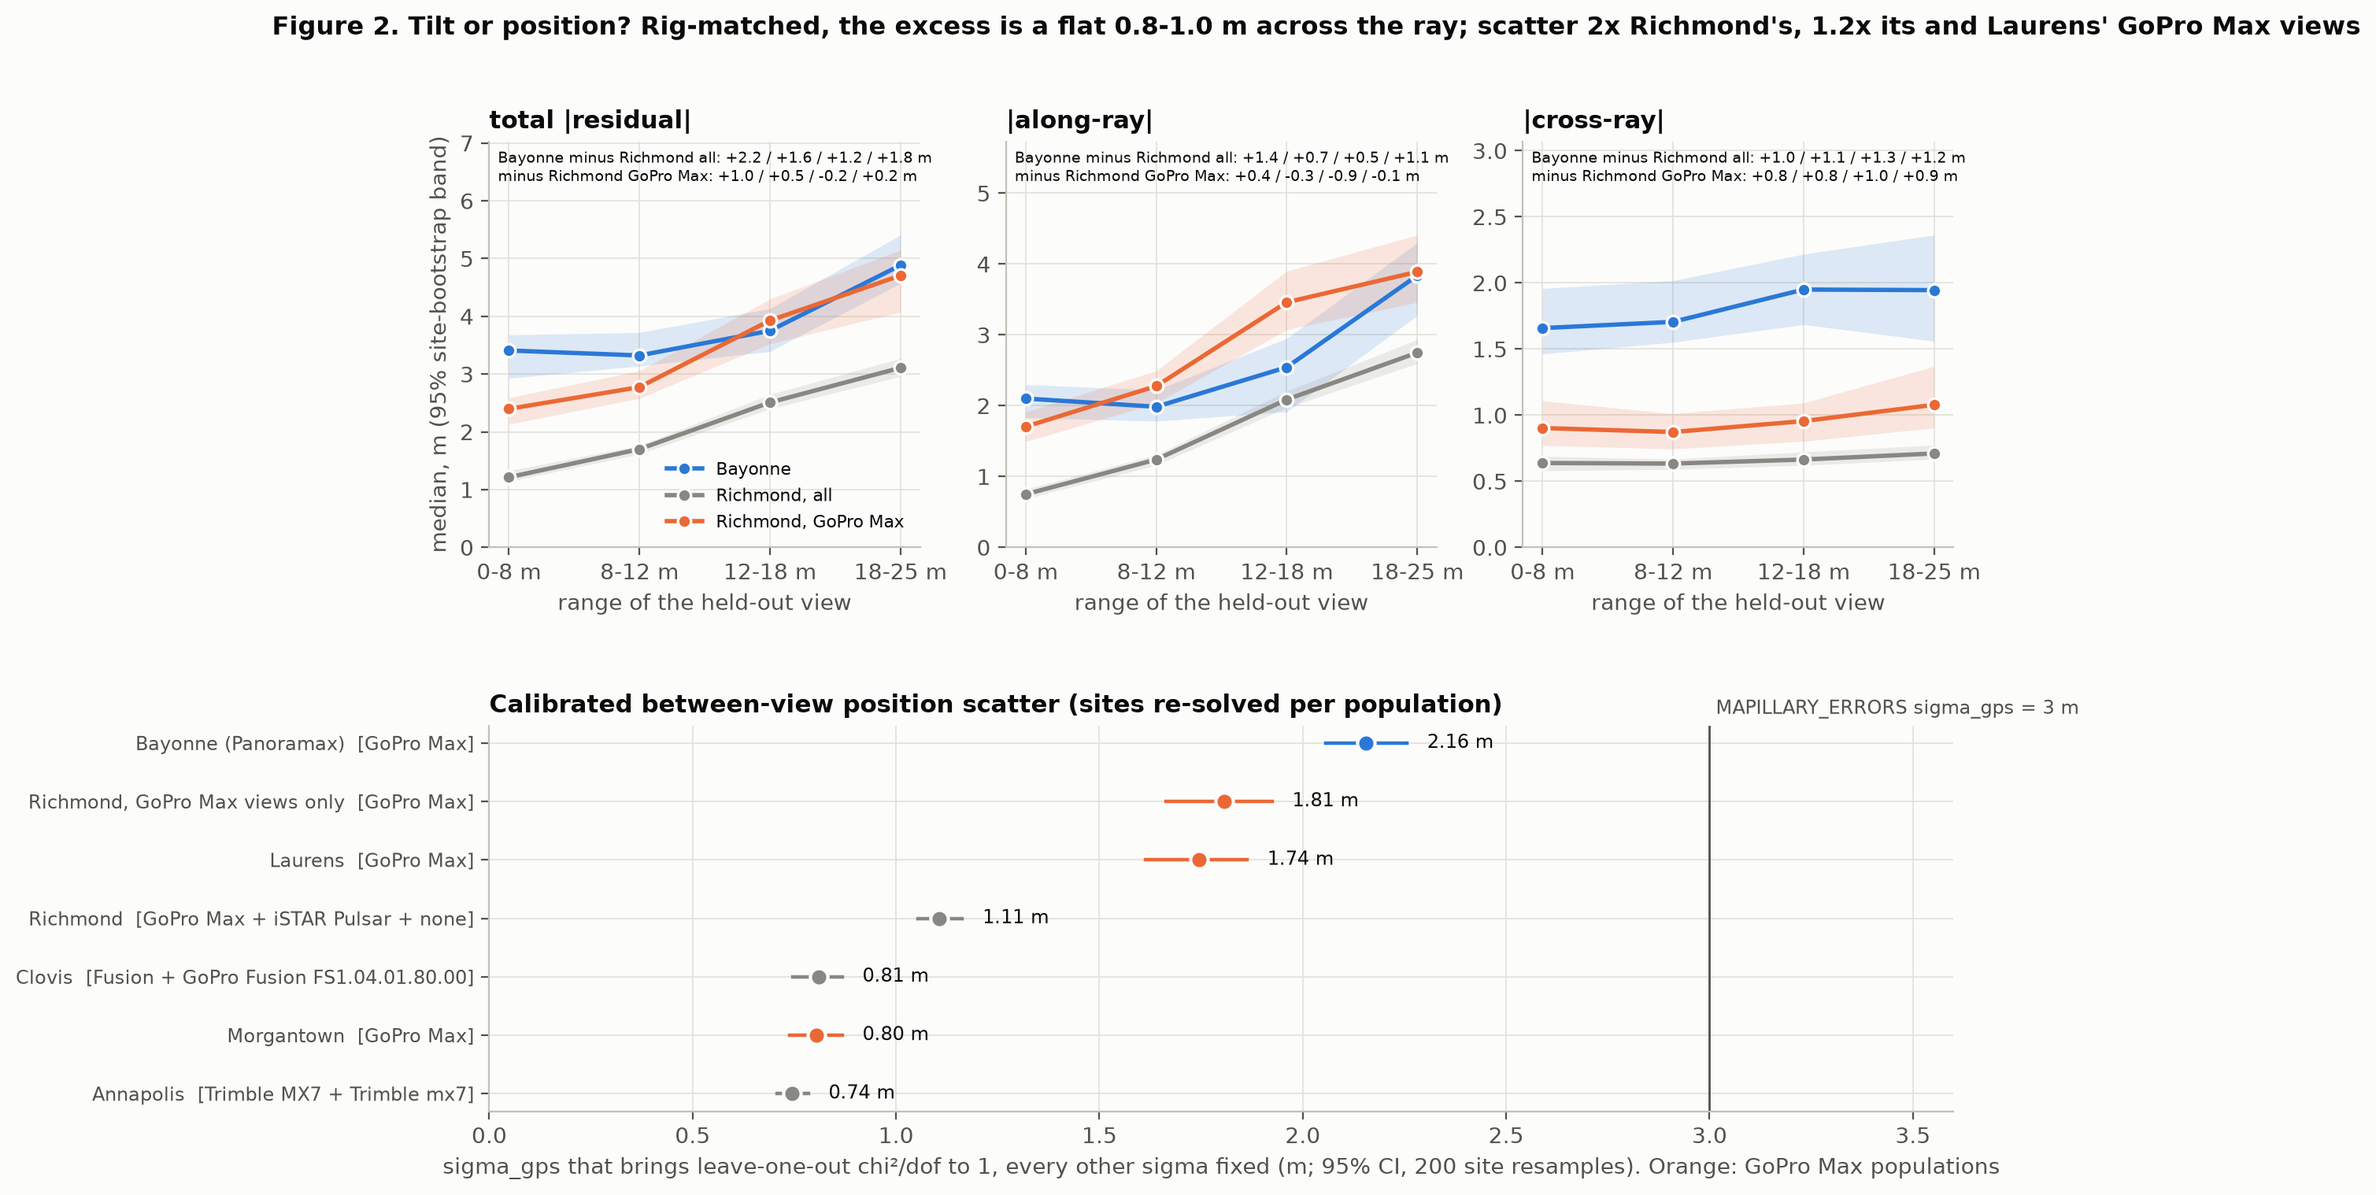
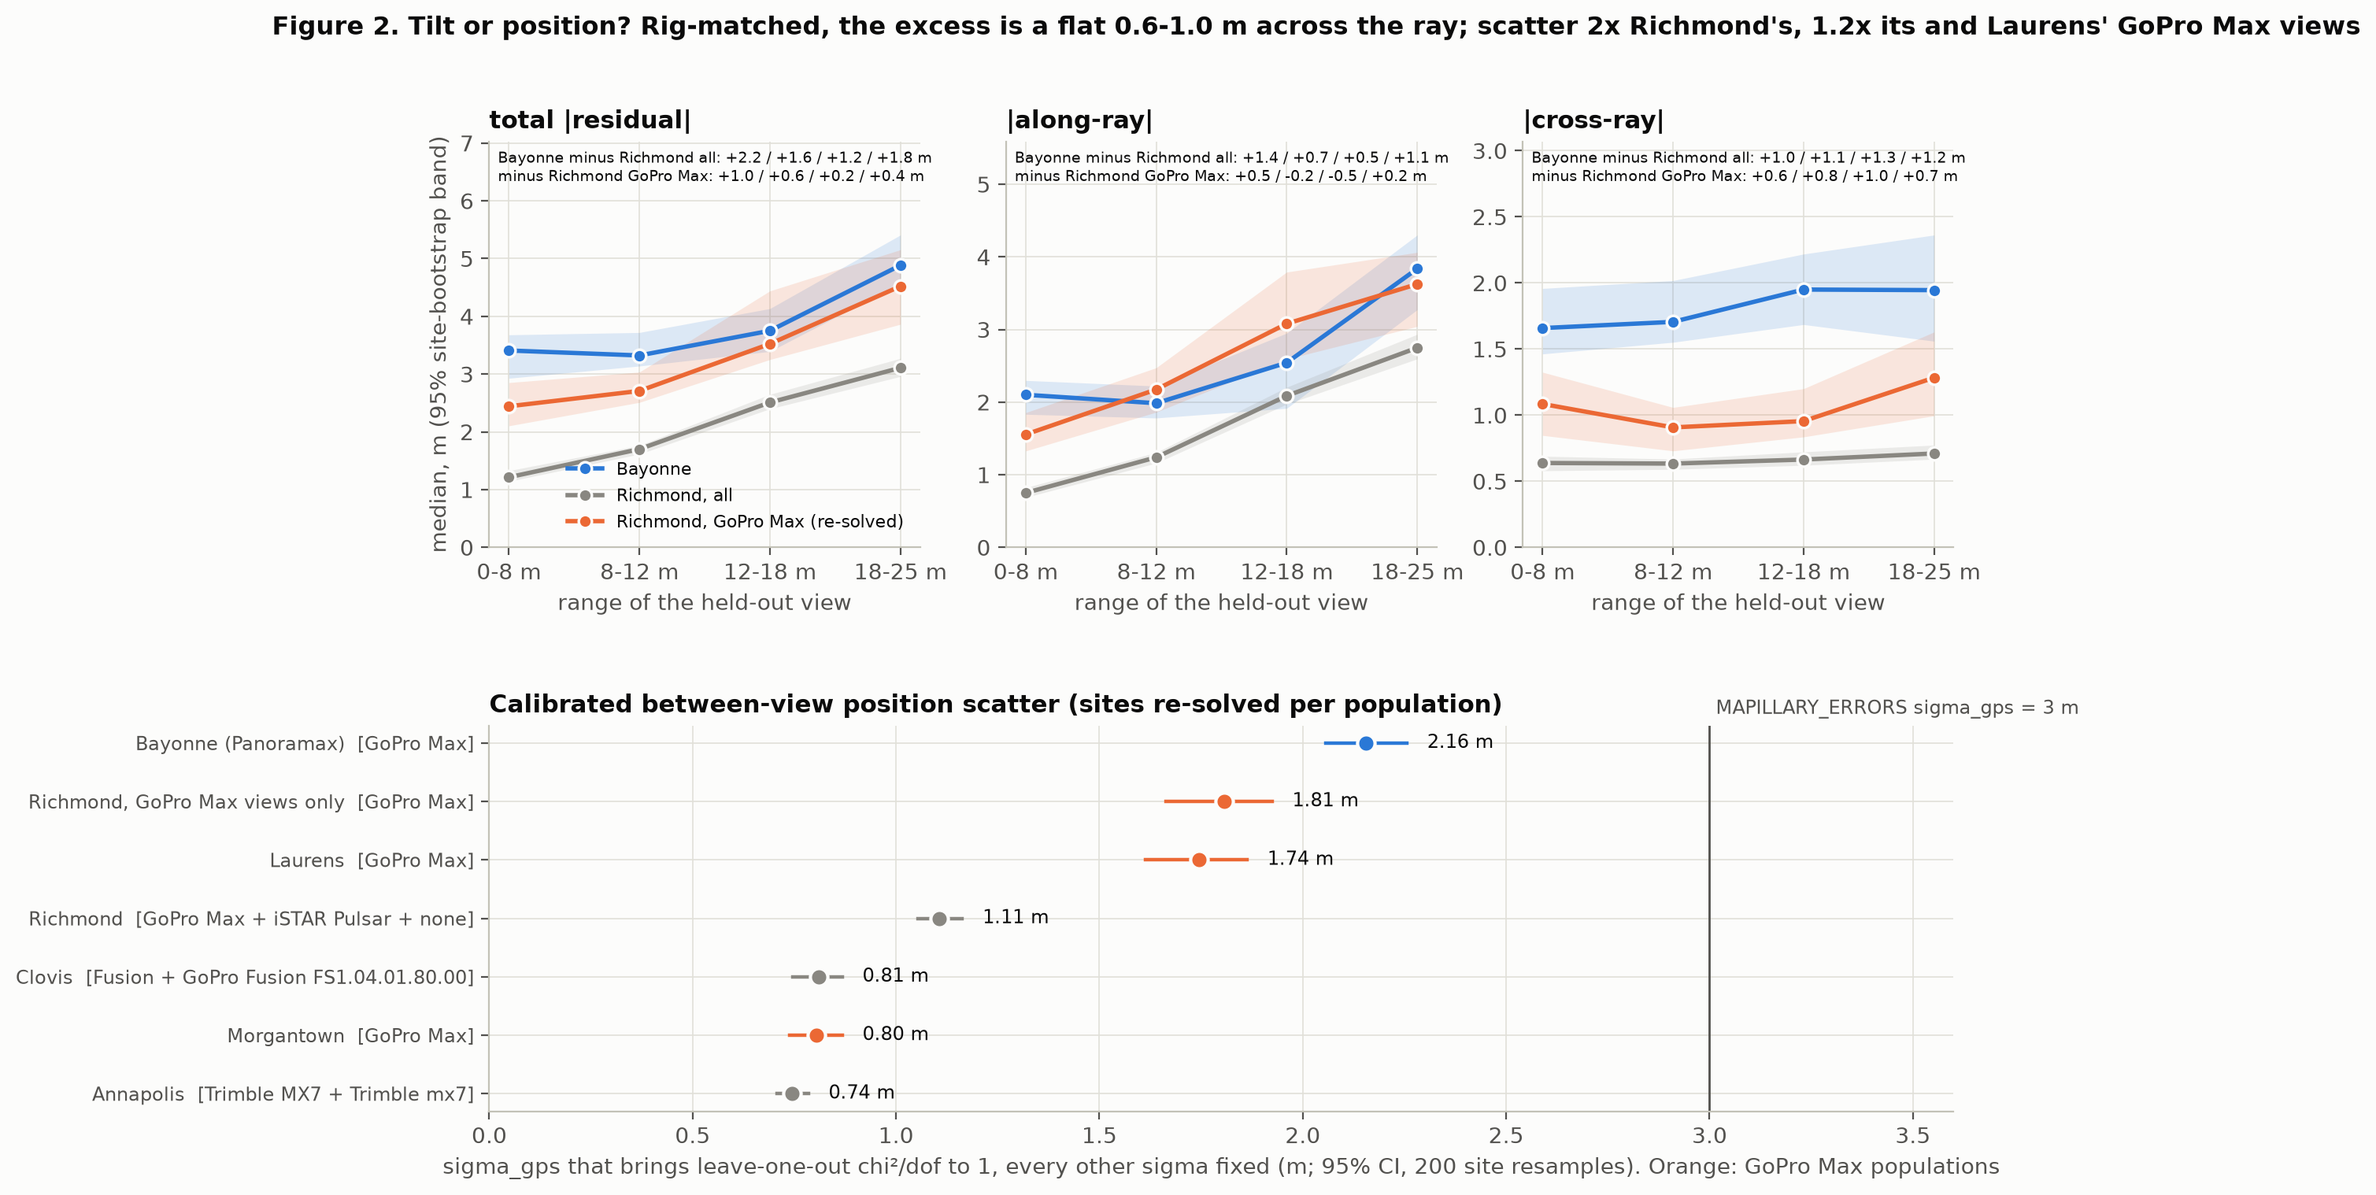
Bayonne #57: re-solve the rig-matched range reference; JPEG photo figures
The Figure 2 range panels now compare Bayonne with Richmond's GoPro Max
views re-solved from GoPro Max views only (as the sigma_gps panel already
did), not filtered from the mixed-rig solution. Along-ray difference
+0.5/-0.2/-0.5/+0.2 m, cross-ray +0.6/+0.8/+1.0/+0.7 m (was +0.8-1.0):
the reading is unchanged. Pair-share wording corrected (below half in
every run), Figure 3 site-size label matched to the data, photo figures
(7a, 7c, 7d) saved as deterministic quality-92 JPEGs instead of a
posterising 256-colour palette.

diff --git a/scripts/panoramax_bayonne_figures.py b/scripts/panoramax_bayonne_figures.py
@@ -212,10 +212,16 @@ def cmd_data(args):
         _write('fig1_verdict.csv', fig1)
 
     # fig2a: residual by range bin -- Bayonne, Richmond (all views) and Richmond's GoPro
-    # Max views (the rig-matched reference)
+    # Max views RE-SOLVED on their own (_rig_sites: each held out against GoPro Max mates
+    # only, as Bayonne's are), the rig-matched reference
     fig2a = []
     for c, subset in ((CITY, 'all'), ('richmond', 'all'), ('richmond', 'GoPro Max')):
-        rows = [r for r in loaded[c][4] if subset == 'all' or r['camera_model'] == subset]
+        if subset == 'all':
+            rows = loaded[c][4]
+        else:
+            _, by_id, sites, frame, _, rigs = loaded[c]
+            rows = rr.gtfree_rows(c, '2.6m', _rig_sites(sites, rigs, subset), frame, by_id,
+                                  HEIGHT, rigs)
         for b in RANGE_BINS:
             grp = [r for r in rows if rr._range_bucket(r['range_m']) == b]
             point, ci = _boot(grp, _stats)
@@ -620,12 +626,24 @@ def _style():
     return plt
 
 
-def _save(fig, name, svg=True, svg_dpi=72, quantize=False):
+def _save(fig, name, svg=True, svg_dpi=72, quantize=False, jpeg=False):
     """PNG (200 dpi) + SVG, with no timestamps. The SVG goes through a buffer and is
     written with '\n' line endings, so it is byte-identical across platforms (the repo's
     .gitattributes keeps *.svg as LF). Photo figures pass svg=False: an SVG would embed the
     photos a second time. Rasterized artists (the 28k-point map) go in at svg_dpi."""
     OUT.mkdir(parents=True, exist_ok=True)
+    if jpeg:
+        # photo figures: a 256-colour palette posterises the photos, so these go out as a
+        # quality-92 JPEG (4:4:4) rendered from the same 200 dpi raster; PIL's encoder is
+        # deterministic for fixed input and settings
+        from PIL import Image
+        buf = io.BytesIO()
+        fig.savefig(buf, format='png', dpi=200, bbox_inches='tight',
+                    metadata={'Software': None})
+        Image.open(io.BytesIO(buf.getvalue())).convert('RGB').save(
+            OUT / f'{name}.jpg', quality=92, subsampling=0)
+        print(f'wrote {OUT / name}.jpg')
+        return
     if quantize:
         # photo/dense figures: an adaptive 256-colour palette (median cut, Floyd-Steinberg),
         # deterministic, a third of the size of a truecolour PNG
@@ -728,7 +746,7 @@ def fig2(plt):
     gs = fig.add_gridspec(2, 3, height_ratios=[1, 0.95], hspace=0.45)
     x = list(range(len(RANGE_BINS)))
     series = ((CITY, 'all', BLUE, 'Bayonne'), ('richmond', 'all', MUTED, 'Richmond, all'),
-              ('richmond', 'GoPro Max', ORANGE, 'Richmond, GoPro Max'))
+              ('richmond', 'GoPro Max', ORANGE, 'Richmond, GoPro Max (re-solved)'))
     for k, (key, title) in enumerate((('m_p50', 'total |residual|'),
                                       ('along_p50', '|along-ray|'),
                                       ('cross_p50', '|cross-ray|'))):
@@ -776,7 +794,7 @@ def fig2(plt):
     ax.set_xlabel('sigma_gps that brings leave-one-out chi²/dof to 1, every other sigma '
                   'fixed (m; 95% CI, 200 site resamples). Orange: GoPro Max populations')
     ax.set_title('Calibrated between-view position scatter (sites re-solved per population)')
-    fig.suptitle('Figure 2. Tilt or position? Rig-matched, the excess is a flat 0.8-1.0 m across '
+    fig.suptitle('Figure 2. Tilt or position? Rig-matched, the excess is a flat 0.6-1.0 m across '
                  'the ray; scatter 2x Richmond\'s, 1.2x its and Laurens\' GoPro Max views',
                  x=0.01, ha='left', fontsize=11.5, fontweight='bold')
     _save(fig, 'fig2_position')
@@ -814,7 +832,7 @@ def fig3(plt):
                               label='no site-mate from its sequence')],
               loc='upper center', fontsize=8.5, bbox_to_anchor=(0.45, -0.13), ncol=2)
     ax.set_xlabel('leave-one-out chi²/dof of the held-out views (95% site-bootstrap CI). '
-                  'The two groups also differ in site size.')
+                  'In Richmond and Annapolis the two groups also differ in site size.')
     ax.set_xlim(0, 1.25)
     ax.set_xticks([0, 0.2, 0.4, 0.6, 0.8])
     ax.set_title('Figure 3. Does same-sequence error cancel in the leave-one-out? Not '
@@ -1003,7 +1021,7 @@ def fig7(plt):
              '(etalab-2.0 = Licence Ouverte / Etalab 2.0; CC-BY-SA-4.0).', fontsize=8.5,
              color=INK2)
     fig.subplots_adjust(left=0.01, right=0.99, top=0.92, bottom=0.02)
-    _save(fig, 'fig7a_contact_sheet', svg=False, quantize=True)
+    _save(fig, 'fig7a_contact_sheet', svg=False, jpeg=True)
 
     site = _read('fig7b_site.csv')
     s = next(r for r in site if r['kind'] == 'site')
@@ -1061,7 +1079,7 @@ def fig7(plt):
     ax.text(0, dh + 260, f"Imagery: © {m['producer']} via Panoramax "
             f"(panoramax.openstreetmap.fr), {m['license']}", fontsize=8, color=INK2)
     fig.tight_layout()
-    _save(fig, 'fig7c_max2_skip', svg=False, quantize=True)
+    _save(fig, 'fig7c_max2_skip', svg=False, jpeg=True)
     fig7d(plt)
 
 
@@ -1090,7 +1108,7 @@ def fig7d(plt):
                  '(seed 57), zoomed to 20° x 15°',
                  x=0.01, ha='left', fontsize=11.5, fontweight='bold')
     fig.subplots_adjust(left=0.01, right=0.99, top=0.9, bottom=0.1)
-    _save(fig, 'fig7d_crops', svg=False, quantize=True)
+    _save(fig, 'fig7d_crops', svg=False, jpeg=True)
 
 
 def cmd_figures(_args):

diff --git a/docs/panoramax-bayonne.md b/docs/panoramax-bayonne.md
@@ -39,9 +39,10 @@ must be qualified
 > 2. **The excess is across the ray, not along it, so it is not tilt.**
 >    - Against all of Richmond, Bayonne's residual is a near-constant +1.2 to +2.2 m in
 >      every range bin.
->    - Against Richmond's GoPro Max views (rig-matched), the along-ray excess vanishes
->      (+0.4 to −0.9 m). A flat **+0.8 to +1.0 m across the ray** remains: position,
->      with some heading error possible.
+>    - Against Richmond's GoPro Max views, re-solved from GoPro Max views only
+>      (rig-matched), there is no consistent along-ray excess (+0.5 / −0.2 / −0.5 /
+>      +0.2 m by range bin). A **+0.6 to +1.0 m excess across the ray** remains:
+>      position, with some heading error possible.
 >    - The leave-one-out-calibrated `sigma_gps` is 2.16 m, against 1.11 m for Richmond
 >      overall. Against the GoPro Max populations it is 1.81 m (Richmond's GoPro Max
 >      views), 1.74 m (Laurens) and 0.80 m (Morgantown). All of them sit under
@@ -86,7 +87,7 @@ pre-thinning count ([#126](https://github.com/ProjectSidewalk/sidewalk-auto-labe
 
 - **104** are GoPro **MAX2** uploads on the OSM-FR instance. Each declares 7680x3840 but
   serves a 7680x2940, vertically cropped `hd` image. The 2:1 check rejects them, which is
-  correct ([Figure 7c](figures/panoramax-bayonne/fig7c_max2_skip.png)).
+  correct ([Figure 7c](figures/panoramax-bayonne/fig7c_max2_skip.jpg)).
 - **3** have no `view:azimuth`, which is also correct.
 - **3** IGN panos (`139d37d3-…`, `1f8be062-…`, `2c902fc4-…`) have metadata and pixels
   that are fine today. main.py does not log per-pano skip reasons, and two causes fit:
@@ -114,7 +115,7 @@ The six runs at 0.55 ([Figure 5](figures/panoramax-bayonne/fig5_detections.png))
 0.123, **Bayonne 0.135**, Laurens 0.158, Morgantown 0.203, Annapolis 0.548, Richmond 1.048.
 Bayonne is inside the Mapillary range.
 
-[Figure 7d](figures/panoramax-bayonne/fig7d_crops.png) zooms in on 12 bundle detections.
+[Figure 7d](figures/panoramax-bayonne/fig7d_crops.jpg) zooms in on 12 bundle detections.
 They are lowered kerbs at crossings, and one tactile strip. Whether French kerb lowerings
 are under-detected is still a question for ground truth. Four of the five comparators
 predate the storage floor, so their 0.30 tier is their 0.55 tier.
@@ -125,7 +126,7 @@ the rig mask (`NADIR_MASK_DEG` = 49°, y ≥ 0.772).
 
 - Detections in the band: **2 of 10,011** at 0.30 and **0 of 3,861** at 0.55.
 - Detections on the rig (dip ≥ 49°): 9 at 0.30, 1 at 0.55.
-- [Figure 7a](figures/panoramax-bayonne/fig7a_contact_sheet.png) shows the band and the
+- [Figure 7a](figures/panoramax-bayonne/fig7a_contact_sheet.jpg) shows the band and the
   mask line. One random pano carries a different, green band from another producer.
 
 **Position check** (`runs/bayonne/position_check.json`): median cross-track to OSM
@@ -205,8 +206,9 @@ cancellation either way (`views_per_site_p50` in the CSV):
 
 The share of same-site view pairs that come from one sequence (`data/fig3_pair_share.csv`)
 is 0.19 in Richmond, 0.36 in Annapolis, 0.37 in Bayonne, 0.40 in Laurens, 0.47 in
-Morgantown and 0.49 in Clovis. It is not a minority everywhere. The Richmond and
-Annapolis shares were measured before the amendment and not disclosed then.
+Morgantown and 0.49 in Clovis. It is below half in every run (0.19-0.49), but well
+above Richmond's 0.19 elsewhere. The Richmond and Annapolis shares were measured before
+the amendment and not disclosed then.
 
 So the rule stands, but the stated reason for it is replaced by measured numbers. The
 `sigma_gps` that brings chi²/dof to **1** (`data/fig2b_sigma_gps.csv`) is:
@@ -262,9 +264,16 @@ and its metre clause fails.
 - **The metre excess is roughly constant across range bins.** Against all of Richmond it
   is +2.2 / +1.6 / +1.2 / +1.8 m (0-8 / 8-12 / 12-18 / 18-25 m). A pitch error would
   grow with range.
-- **Rig-matched, the excess sits across the ray.** Against Richmond's GoPro Max views,
-  the along-ray difference is +0.4 / −0.3 / −0.9 / −0.1 m, while the cross-ray excess is
-  a flat +0.8 / +0.8 / +1.0 / +0.9 m.
+- **Rig-matched, the excess sits across the ray.** The reference is Richmond's GoPro
+  Max views re-solved from GoPro Max views only (`_rig_sites`), so each is held out
+  against GoPro Max mates, as Bayonne's are. Against it, the along-ray difference is
+  +0.5 / −0.2 / −0.5 / +0.2 m, while the cross-ray excess is +0.6 / +0.8 / +1.0 / +0.7 m.
+  - Bins hold 128-346 views.
+  - An earlier version only filtered the mixed-rig solution, so those views were held
+    out against mostly iSTAR Pulsar mates. It read along +0.4 / −0.3 / −0.9 / −0.1 and
+    cross +0.8 / +0.8 / +1.0 / +0.9.
+  - Re-solving narrows the cross-ray gap at the two outer bins and removes the along-ray
+    deficit at long range. The reading is unchanged.
   - A range-independent cross-ray offset is camera position.
   - Heading error would grow with range: the cross-ray part grows only 1.66 to 1.95 m over
     a ~16 m span, which bounds heading at about 1° or less.
@@ -390,7 +399,7 @@ at 1.90 panos/s.
 | 9 | `python scripts/panoramax_bayonne_figures.py examples` → `data/examples/` (7a thumbnails; 7c, the first cropped-MAX2 skip by pano id) | net | 1 min |
 | 10 | `python scripts/export_benchmark.py runs/bayonne/results.jsonl --bundle D:/Git/labeler-wt/bayonne-bundle --sample 100 --empty-sample 25` | net | 1.5 min |
 | 11 | `python scripts/panoramax_bayonne_figures.py crops` → `data/examples/crops/` + `crops.csv` (from the bundle) | — | 10 s |
-| 12 | `python scripts/panoramax_bayonne_figures.py figures` → `fig*.png` (+ `.svg` for figures 1-5 and 7b) | — | 30 s |
+| 12 | `python scripts/panoramax_bayonne_figures.py figures` → `fig*.png` / `.jpg` (+ `.svg` for figures 1-5 and 7b) | — | 30 s |
 | 13 | on makelab2, `bayonne_archive.sh`: `export_benchmark.py runs/bayonne/results.jsonl --out runs/bayonne/panos` | net | 4.2 h |
 
 - **Step 2** must keep `--thin-spacing 10`. The manifest does not record it (#126); the
@@ -398,10 +407,12 @@ at 1.90 panos/s.
 - **Step 5's** `bayonne_report.md` copies under `data/reprojection*/` are that step's
   per-city `report.md`, copied by hand.
 - **Step 12** reads only the committed `data/`. It is byte-reproducible for the listed
-  versions: it was run twice and every PNG and SVG hashed identical. SVGs are written
+  versions: it was run twice and every PNG, JPEG and SVG hashed identical. SVGs are written
   with LF line endings, and `.gitattributes` keeps them LF.
-- **Figure formats.** The photo and map figures (6, 7a, 7c, 7d) are PNG only, at 200 dpi
-  with an adaptive 256-colour palette. An SVG would embed the photos a second time.
+- **Figure formats.** Figures 1-5 and 7b are PNG + SVG. The map (6) is PNG with a
+  deterministic 256-colour palette. The photo figures (7a, 7c, 7d) are quality-92 JPEGs
+  (4:4:4) rendered from the same 200 dpi raster: a palette posterised the photos, and an
+  SVG would embed them a second time.
 
 **Committed vs regenerated.**
 
@@ -447,12 +458,12 @@ at 1.90 panos/s.
 | # | question it answers | file |
 |---|---|---|
 | 1 | Is Bayonne outside the Richmond-anchored band? Marginally: 8% over the bar, 1.16x Richmond's GoPro Max views (CIs just separate). | [fig1_verdict](figures/panoramax-bayonne/fig1_verdict.png) |
-| 2 | Tilt or position? Rig-matched, the excess is a flat 0.8-1.0 m across the ray. Scatter is 2x Richmond's and 1.2x its and Laurens' GoPro Max views. | [fig2_position](figures/panoramax-bayonne/fig2_position.png) |
+| 2 | Tilt or position? Rig-matched (re-solved), the excess is 0.6-1.0 m across the ray. Scatter is 2x Richmond's and 1.2x its and Laurens' GoPro Max views. | [fig2_position](figures/panoramax-bayonne/fig2_position.png) |
 | 3 | Does same-sequence error cancel? Not established: the anchor reads the opposite way. | [fig3_seqsplit](figures/panoramax-bayonne/fig3_seqsplit.png) |
 | 4 | Apply the reported pose? No: every sign convention loosens. | [fig4_pose](figures/panoramax-bayonne/fig4_pose.png) |
 | 5 | Is the detection rate anomalous? No: it is inside the Mapillary range. | [fig5_detections](figures/panoramax-bayonne/fig5_detections.png) |
 | 6 | What did the run cover? Census and map. | [fig6_census](figures/panoramax-bayonne/fig6_census.png) |
-| 7a-d | What do the panos, a site, a MAX2 skip and the detections themselves look like? | [7a](figures/panoramax-bayonne/fig7a_contact_sheet.png), [7b](figures/panoramax-bayonne/fig7b_site_plan.png), [7c](figures/panoramax-bayonne/fig7c_max2_skip.png), [7d](figures/panoramax-bayonne/fig7d_crops.png) |
+| 7a-d | What do the panos, a site, a MAX2 skip and the detections themselves look like? | [7a](figures/panoramax-bayonne/fig7a_contact_sheet.jpg), [7b](figures/panoramax-bayonne/fig7b_site_plan.png), [7c](figures/panoramax-bayonne/fig7c_max2_skip.jpg), [7d](figures/panoramax-bayonne/fig7d_crops.jpg) |
 
 **Colour key across figures:** blue is Bayonne, orange is a GoPro Max population, and
 grey is other or mixed rigs.
@@ -467,9 +478,9 @@ Alt text, in order:
 1. Dot plot of chi²/dof and median residual for eight rows. Bayonne at 0.58 sits just
    above the shaded 0.13-0.54 band. Richmond's GoPro Max views (0.50) and Laurens (0.43)
    sit just inside it, Morgantown (GoPro Max) at 0.18, and other rigs near 0.2.
-2. Three line panels by range: Bayonne, all of Richmond, and Richmond's GoPro Max views.
-   Bayonne tracks Richmond's GoPro Max along the ray but sits about 0.9 m above it across
-   the ray. A dot plot shows calibrated `sigma_gps` from 0.74 m (Annapolis) to 2.16 m
+2. Three line panels by range: Bayonne, all of Richmond, and Richmond's GoPro Max views
+   re-solved on their own. Bayonne tracks Richmond's GoPro Max along the ray but sits
+   0.6-1.0 m above it across the ray. A dot plot shows calibrated `sigma_gps` from 0.74 m (Annapolis) to 2.16 m
    (Bayonne), with the GoPro Max populations at 0.80, 1.74 and 1.81 m, all left of the
    3 m line.
 3. Paired dots per run: chi²/dof for held-out views whose site-mates are all from the

diff --git a/CLAUDE.md b/CLAUDE.md
@@ -56,7 +56,7 @@ python main.py example_geojson/bayonne.geojson --name bayonne --source panoramax
 # populations read 0.18-0.50 (Richmond's GoPro Max views 0.499, Laurens 0.431, Morgantown 0.177),
 # and Bayonne sites are small (3 views / 2 sequences vs Richmond's 7 / 4, 10 m thinning), so it
 # cannot be separated from a single-consumer-rig or site-size effect. The excess is ACROSS the ray
-# (rig-matched vs Richmond's GoPro Max: along-ray +0.4..-0.9 m, cross-ray a flat +0.8-1.0 m), not
+# (vs Richmond's GoPro Max views re-solved alone: along-ray +0.5..-0.5 m, cross-ray +0.6-1.0 m), not
 # pitch: no sigma_pitch <= 15 deg fixes it. Calibrated sigma_gps: Bayonne 2.16 m vs Richmond 1.11,
 # Richmond GoPro Max 1.81, Laurens 1.74, Morgantown 0.80. NOTHING adopted -- error_model_for(
 # 'panoramax') stays MAPILLARY_ERRORS until GT (eval_sites) and a 5 m run. Pose: pers:pitch/roll
